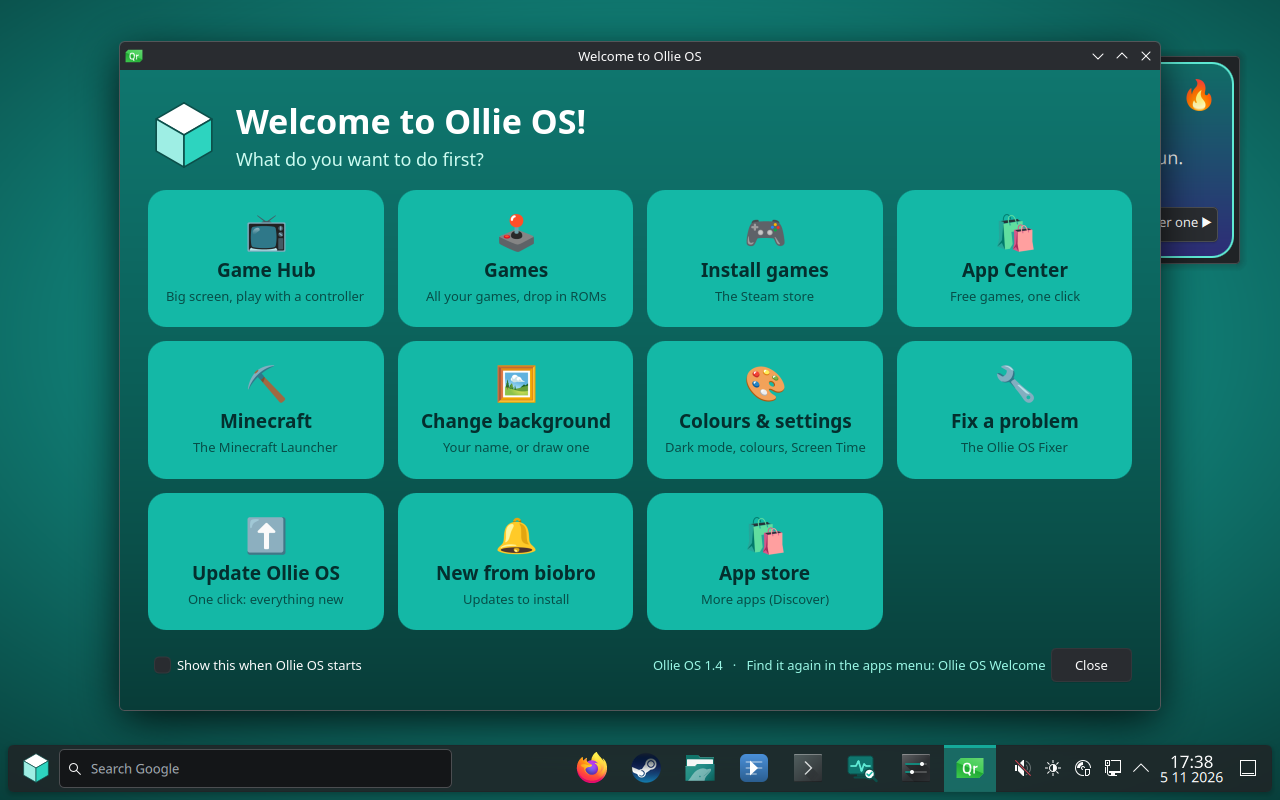
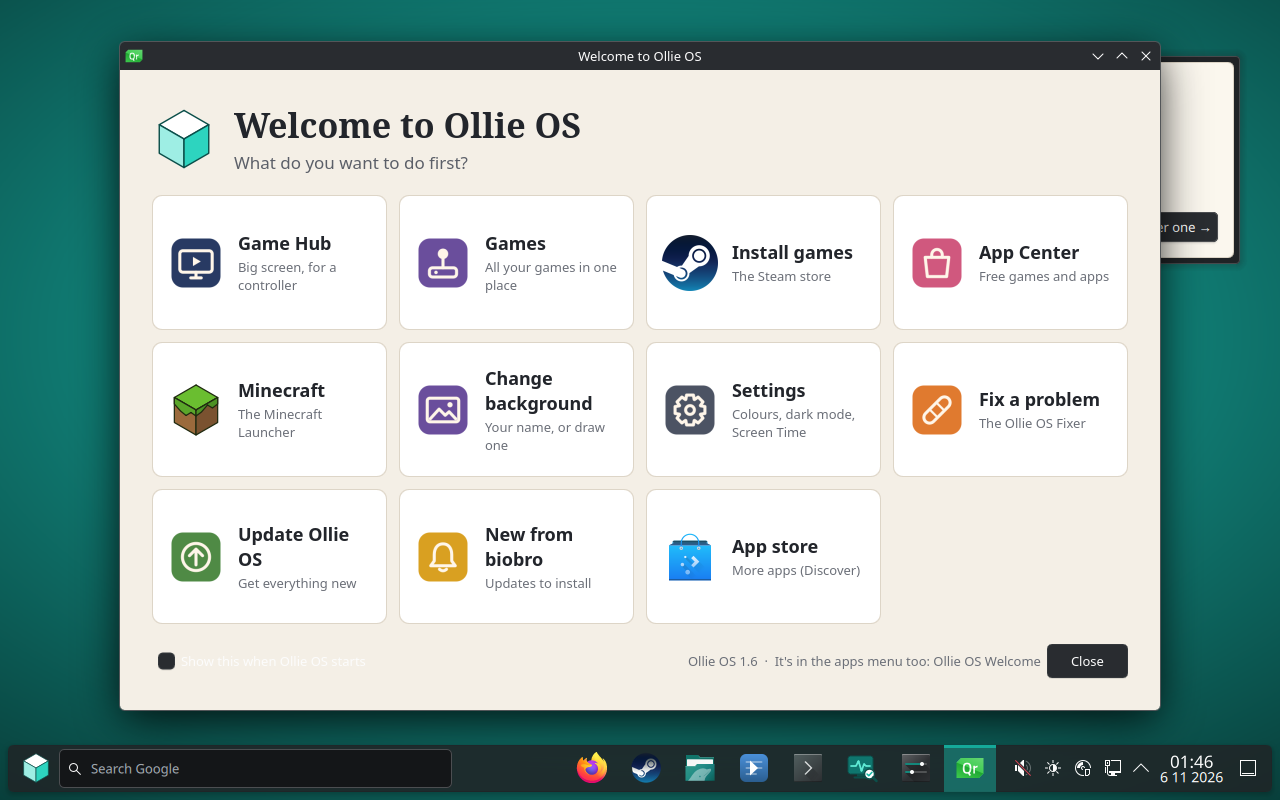
Welcome: the "Show this when Ollie OS starts" words readable in dark mode
The automatic test's picture of the real desktop showed them almost
invisible (the tick box draws its own text in the dark theme's colour on
Welcome's light paper); now they are a label in Welcome's own ink. The
real desktop picture on the website is the new one, from that test.

Claude-Session: https://claude.ai/code/session_01TsrSC7n5nV27rvJng7eshW

diff --git a/os/profile/airootfs/usr/local/share/ollie/welcome.qml b/os/profile/airootfs/usr/local/share/ollie/welcome.qml
@@ -137,8 +137,11 @@ ApplicationWindow {
                 id: atStart
                 checked: win.arg("atstart") === "on"
                 onToggled: win.act("at-start " + (checked ? "on" : "off"))
-                text: "Show this when Ollie OS starts"
-                palette.windowText: "#22252B"
+            }
+            // Its words in the window's own ink (the box's own text follows dark mode).
+            Label {
+                text: "Show this when Ollie OS starts"; color: "#22252B"; font.pixelSize: 14
+                MouseArea { anchors.fill: parent; onClicked: atStart.toggle(), atStart.toggled() }
             }
             Item { Layout.fillWidth: true }
             Label { text: (win.arg("version") ? "Ollie OS " + win.arg("version") + "  ·  " : "") + "It's in the apps menu too: Ollie OS Welcome"; color: "#6B6F78"; font.pixelSize: 13 }
